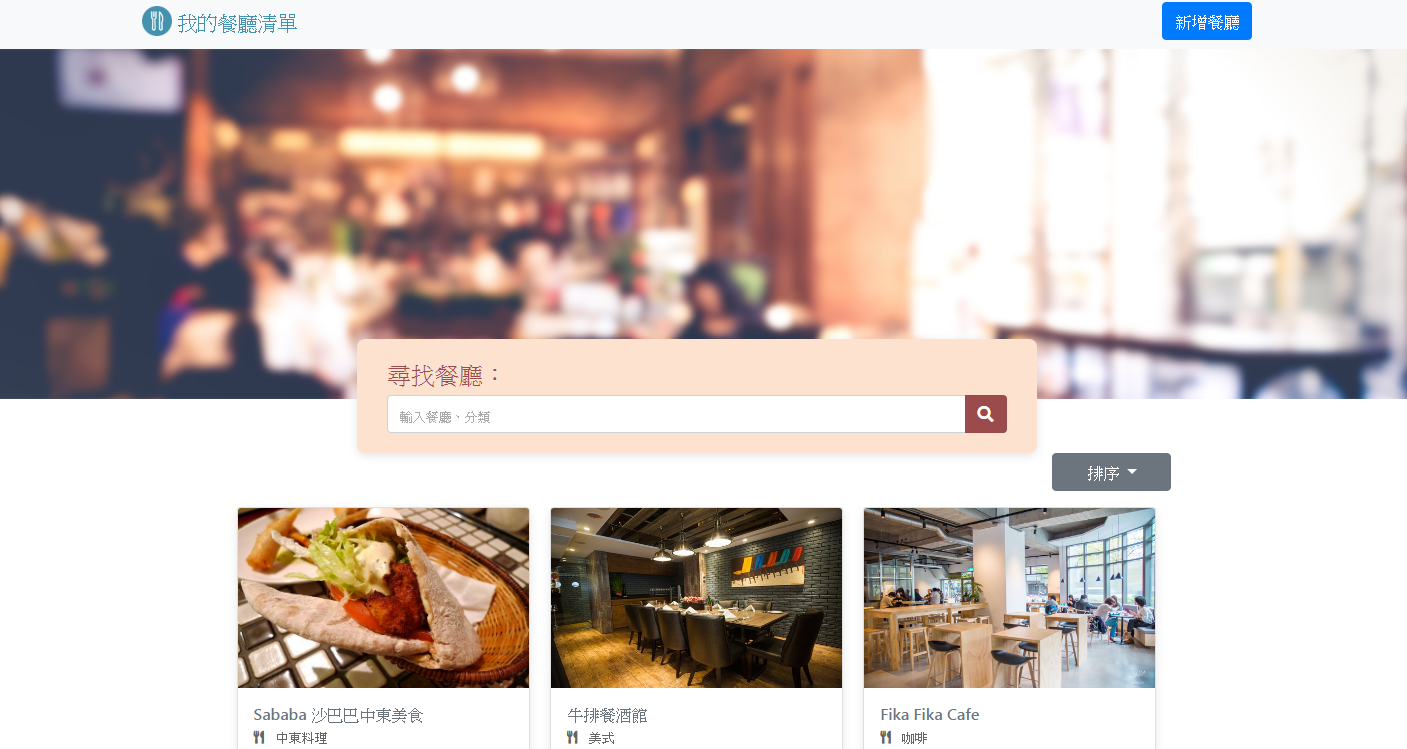
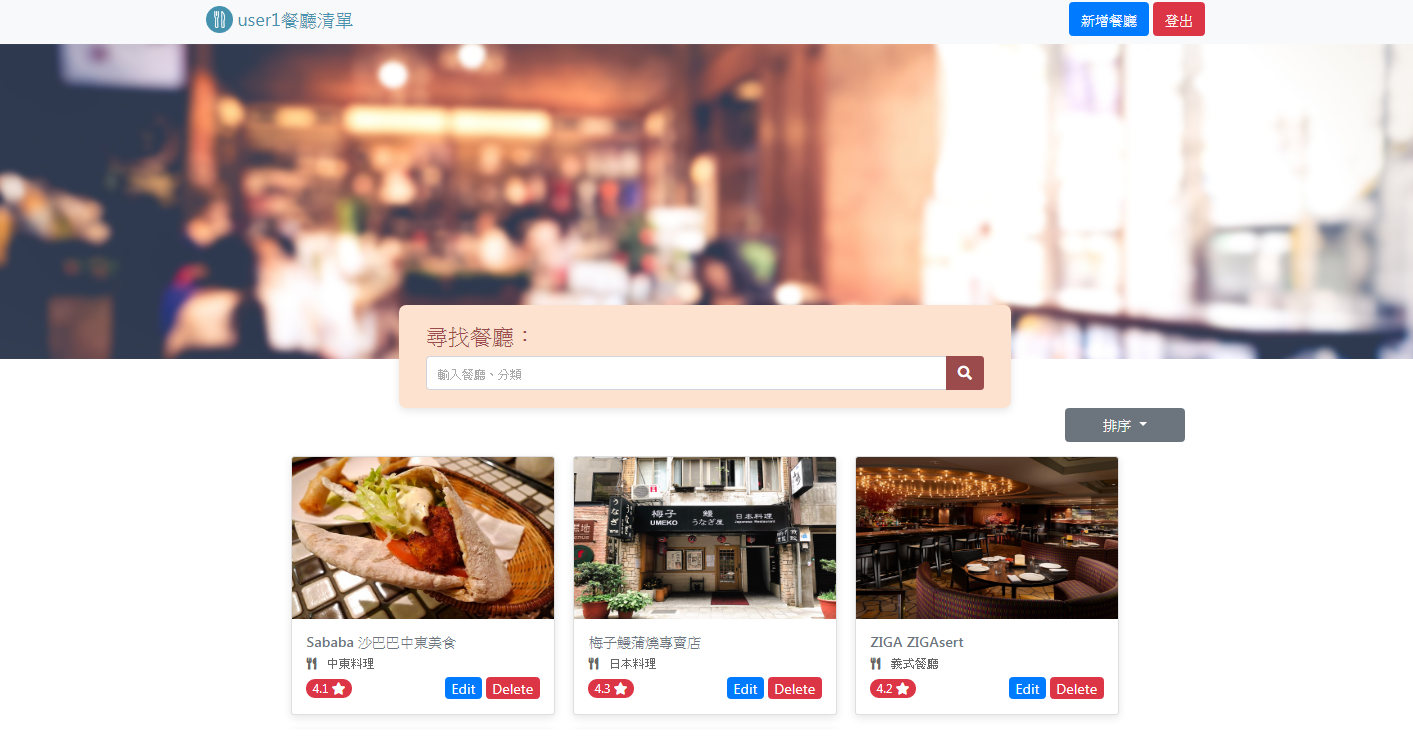
feat: modify readme and show image

diff --git a/routes/modules/users.js b/routes/modules/users.js
@@ -17,7 +17,6 @@ function judgeInput(req, res, next) {
   if (!req.body.email || !req.body.password)
     req.flash('loginError', '帳號/密碼不能為空~')
   req.flash('email', req.body.email)
-  req.flash('password', req.body.password)
   next()
 }
 
@@ -25,7 +24,6 @@ router.get('/logout', (req, res) => {
   req.logout()
   res.redirect('/user/login')
 })
-
 
 router.get('/register', (req, res) => {
   res.render('register')
@@ -36,9 +34,11 @@ router.post('/register', (req, res) => {
 
   if (!name || !email || !password || !confirmPassword) {
     req.flash('registerError', '所有都是必填!\n')
+    return res.render('register', { registerError: req.flash('registerError'), name, email})
   }
   if (password !== confirmPassword) {
     req.flash('registerError', '密碼與確認密碼不同!\n')
+    return res.render('register', { registerError: req.flash('registerError'), name, email })
   }
 
   userSchema.findOne({ email })

diff --git a/README.md b/README.md
@@ -1,20 +1,11 @@
 # 美食網站 
-### 一個提供各式類別的美食網站，可以供大家搜尋與查閱相關資訊，也可以對個別做新增/刪除/修改的動作。
-### 此網站是由node.js與express共同打造的，並加入資料庫的CRUD操作。
+### 此網站是由node.js與express所打造的，並加入資料庫的CRUD操作，與登入系統的帳號管理。
+### 能提供每個人獨立的操作環境，收藏喜愛的美食網站，並提供帳密的保護。
 
 ---
 ![image](https://github.com/CoreyHuang/ALPHAcamp_restaurant_DB_refactor/blob/master/restaurantDB.png)
-## Features(功能描述):
-#### 使用者可以瀏覽全部餐廳。
-#### 使用者可以搜尋喜愛的餐廳名稱與餐廳類別。
-#### 使用者可以點擊餐廳並瀏覽其詳細資訊。
-#### 使用者可以新增喜愛的餐廳。
-#### 使用者可以修改餐廳內的相關內容。
-#### 使用者可以刪除不喜歡或過時的餐廳。
-#### 使用者可以依照個人需求排序餐廳。
 
-
-## installation and execution(安裝與執行步驟):
+### installation and execution(安裝與執行步驟):
 #### `<安裝步驟>`
 #### 1. 安裝git
 ```
@@ -56,18 +47,30 @@ nodemon app.js or npm run dev
 ```
 URL: http://localhost:3000/
 ```
+|Account|Password|
+|:-----:|:------:|
+|user1@example.com|12345678|
+|-------|--------|
+|user2@example.com|12345678|
+|-------|--------|
 
-
-## Prerequisites(環境建置與需求):
-#### `<安裝需求>` : 版本為記錄用，並非必須
-#### 1. git : v2.27.0.windows.1
-#### 2. nvm : v1.1.7
-#### 3. node : v10.15.0
-#### 4. npm : v6.4.1
-#### 5. nodemon : v2.0.4
+### Prerequisites(環境建置與需求):
+#### `<安裝需求>` 
+ 1. git : v2.27.0.windows.1
+ 2. nvm : v1.1.7
+ 3. node : v10.15.0
+ 4. npm : v6.4.1
+ 5. nodemon : v2.0.4
 #### `<npm套件>`
-#### 1. express : v4.17.1
-#### 2. express-handlebars : v5.1.0
-#### 3. mongoose : v5.9.25
-#### 4. body-parser : v1.19.0
-#### 5. method-override : v3.0.0
+ 1. express : v4.17.1
+ 2. express-handlebars : v5.1.0
+ 3. mongoose : v5.9.25
+ 4. body-parser : v1.19.0
+ 5. method-override : v3.0.0
+ 6. bcryptjs : v2.4.3
+ 7. connect-flash : v0.1.1
+ 8. dotenv : v8.2.0
+ 9. express-session : v1.17.1
+ 10. passport : v0.4.1
+ 11. passport-facebook : v3.0.0
+ 12. passport-local : v1.0.0
